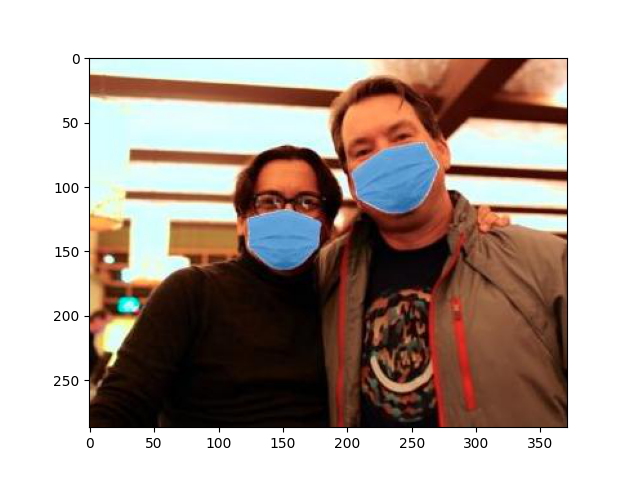
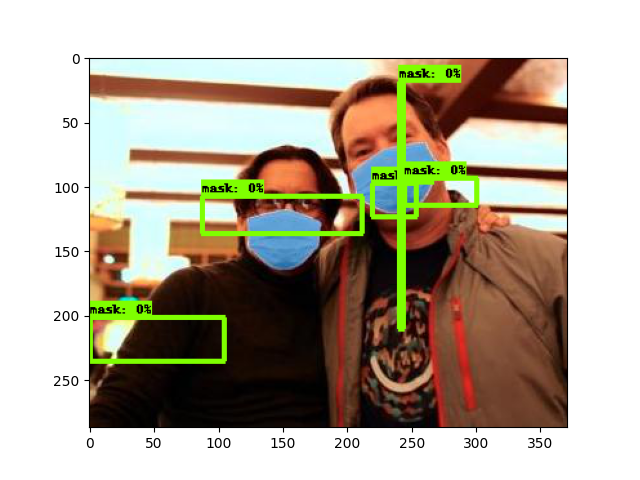
Change case of map.pbtxt

Changed region(s): [[0.3125, 0.125, 0.75, 0.6875], [0.125, 0.625, 0.375, 0.7812]]

diff --git a/nets/detect/plot_object_detection_saved_model.py b/nets/detect/plot_object_detection_saved_model.py
@@ -67,7 +67,7 @@ import time
 from object_detection.utils import label_map_util
 from object_detection.utils import visualization_utils as viz_utils
 
-PATH_TO_SAVED_MODEL = "../../data/export1" + "/saved_model"
+PATH_TO_SAVED_MODEL = "../../data/export5" + "/saved_model"
 
 print('Loading model...', end='')
 start_time = time.time()
@@ -161,17 +161,27 @@ for image_path in ["../../data/test.jpg"]:
     detections['detection_classes'] = detections['detection_classes'].astype(np.int64)
 
     image_np_with_detections = image_np.copy()
+    print("Starting")
     print(detections['detection_scores'])
+    dets = []
+    for i in range(len(detections['detection_boxes'])):
+    	dets.append([detections['detection_boxes'][i], detections['detection_classes'][i], detections['detection_scores'][i]])
+    dets.sort(key=lambda i:i[2])
+    dets = dets[:5]
+    boxes = np.array([i[0] for i in dets])
+    classes = np.array([i[1] for i in dets])
+    scores = np.array([i[2] for i in dets])
+    
 
     viz_utils.visualize_boxes_and_labels_on_image_array(
           image_np_with_detections,
-          detections['detection_boxes'],
-          detections['detection_classes'],
-          detections['detection_scores'],
+          boxes,
+          classes,
+          scores,
           category_index,
           use_normalized_coordinates=True,
           max_boxes_to_draw=200,
-          min_score_thresh=.3,
+          min_score_thresh=0,
           agnostic_mode=False)
 
     plt.figure()

diff --git a/nets/detect/model_lib_v2_test.py b/nets/detect/model_lib_v2_test.py
@@ -699,7 +699,7 @@ def train_loop(
           for key, val in logged_dict.items():
             tf.compat.v2.summary.scalar(key, val, step=global_step)
 
-          if step - logged_step >= 200:
+          if step - logged_step >= 100:
             logged_dict_np = {name: value.numpy() for name, value in
                               logged_dict.items()}
             print(

diff --git a/nets/detect/faster_rcnn.py b/nets/detect/faster_rcnn.py
@@ -16,8 +16,8 @@ class FasterRCNNTrainer:
         model_lib_v2_test.train_loop(
             pipeline_config_path=self.model_config,
             model_dir=self.ckpt_dir,
-            train_steps=25000,
-            checkpoint_every_n=200,
+            train_steps=2500,
+            checkpoint_every_n=100,
             checkpoint_max_to_keep=250)
 
     def evaluate(self):
